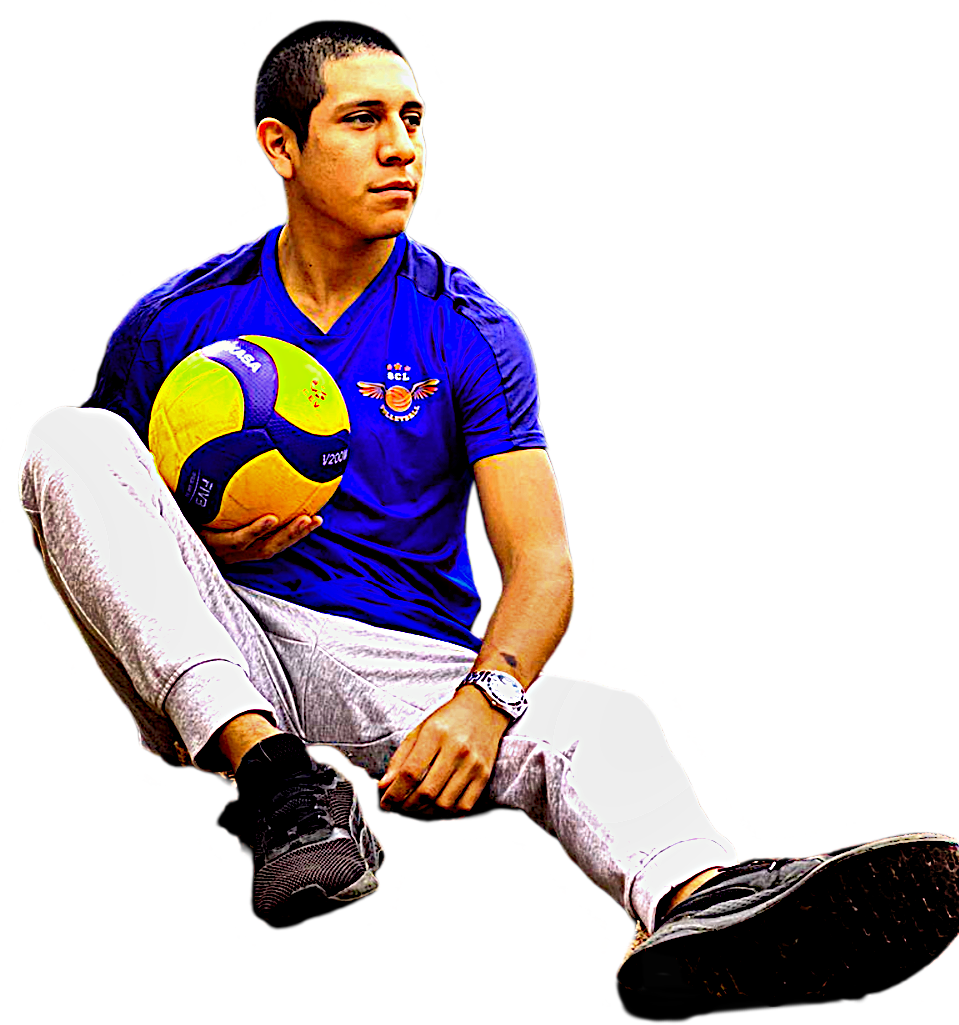
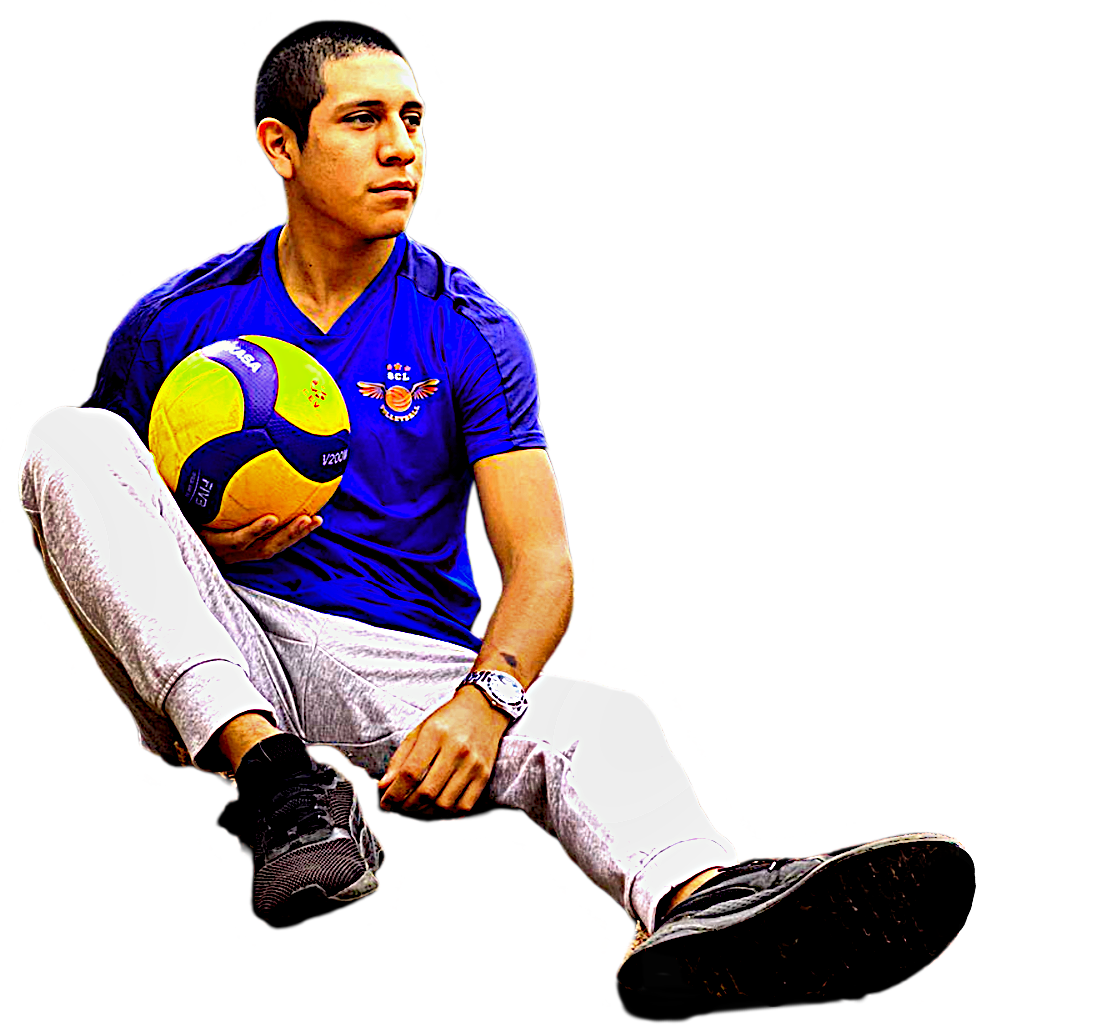
SnapshotX

diff --git a/styles.css b/styles.css
@@ -46,6 +46,8 @@ body.dark .waves .wave{
     --nav-height: 15vh;
     --wave-height: 5rem;
     --wave-width: 1280px;
+    --players-pose-width: 30vw;
+    --blog-height: 50vh;
 
     /*Golden Ratio*/
     --size0: 0.382rem;
@@ -453,7 +455,7 @@ body.dark .dark-light img.moon{
     min-height: 100vh;
 }
 .blog{
-    height: 50vh;
+    height: var(--blog-height);
     display: flex;
     flex-direction: row;
     align-items: center;
@@ -468,31 +470,45 @@ body.dark .dark-light img.moon{
     font: 2rem montserrat;
 }
 .blog .players{
-    width: 40vw;
-    height: 100%;
+    width: var(--players-pose-width);
+    height: var(--blog-height);
     position: relative;
     overflow: visible;
+    transition: all 0.8s ease-in-out;
 }
 .blog .players img{
     position: absolute;
-    transition: all 0.3s ease-in-out;
+    max-width: var(--players-pose-width);
+    max-height: calc(0.8 * var(--blog-height));
+    width: auto;
+    height: auto;
+    transition: all 0.5s ease-in-out;
+}
+.blog .players .stain{
+    width: 20rem;
+    max-height: none;
+    height: auto;
+    bottom: 0;
+    right: 2rem;
+    z-index: 0;
 }
 .blog .players .alex{
-    height: 15rem;
-    top: 0;
-    left: 15%;
+    bottom: 25%;
+    right: 40%;
+    z-index: 1;
 }
 .blog .players .david{
-    height: 15rem;
     bottom: 0;
     right: 0;
+    z-index: 2;
 }
 .blog .players:hover .alex{
-    top: -10%;
-    left: 13%;
-}.blog .players:hover .david{
-    bottom: -2%;
-    right: 2%;
+    transform: translate(-1.4rem, -1.3rem);
+    filter: grayscale(1) contrast(2);
+}
+.blog .players:hover .david{
+    transform: translate(1rem, 0);
+    filter: grayscale(1) contrast(4);
 }
 
 /* RESPONSIVENESS */
@@ -555,6 +571,30 @@ body.dark .dark-light img.moon{
     }
     .hero .phoenix{
         max-width: 100vw;
+    }
+    .blog .players .stain{
+        max-width: none;
+        width: 10rem;  
+        max-height: none;
+        height: auto;
+        bottom: 20%;
+        right: 0;
+    }
+    .blog .players .alex{
+        bottom: 25%;
+        right: 40%;
+        z-index: 1;
+    }
+    .blog .players .david{
+        bottom: 20%;
+        right: 0;
+        z-index: 2;
+    }
+    .blog .players:hover .alex{
+        transform: translate(-0.7rem, -1.3rem);
+    }
+    .blog .players:hover .david{
+        transform: translate(0.5rem, 0);
     }
 }
 

diff --git a/script.js b/script.js
@@ -6,7 +6,8 @@ const body = document.querySelector("body"),
       sidebarClose = document.querySelector(".sidebar-close"),
       imgGold = document.querySelector('.gold'),
       loadingText = document.querySelector('.loading-text'),
-      videoHero = document.querySelector('.hero-video');
+      videoHero = document.querySelector('.hero-video'),
+      alex = document.querySelector('.alex');
 
 let getMode = localStorage.getItem("mode");
 

diff --git a/index.html b/index.html
@@ -132,6 +132,7 @@ git pull origin main; git add .; git commit -m "SnapshotX"; git push -u origin m
             <div class="players">
                 <img src="assets/alex.png" alt="volleyball player flying" class="alex">
                 <img src="assets/david.png" alt="volleyball player posing" class="david">
+                <img src="assets/paint-stains.png" alt="white stain" class="stain">
             </div> 
         </section>
 
